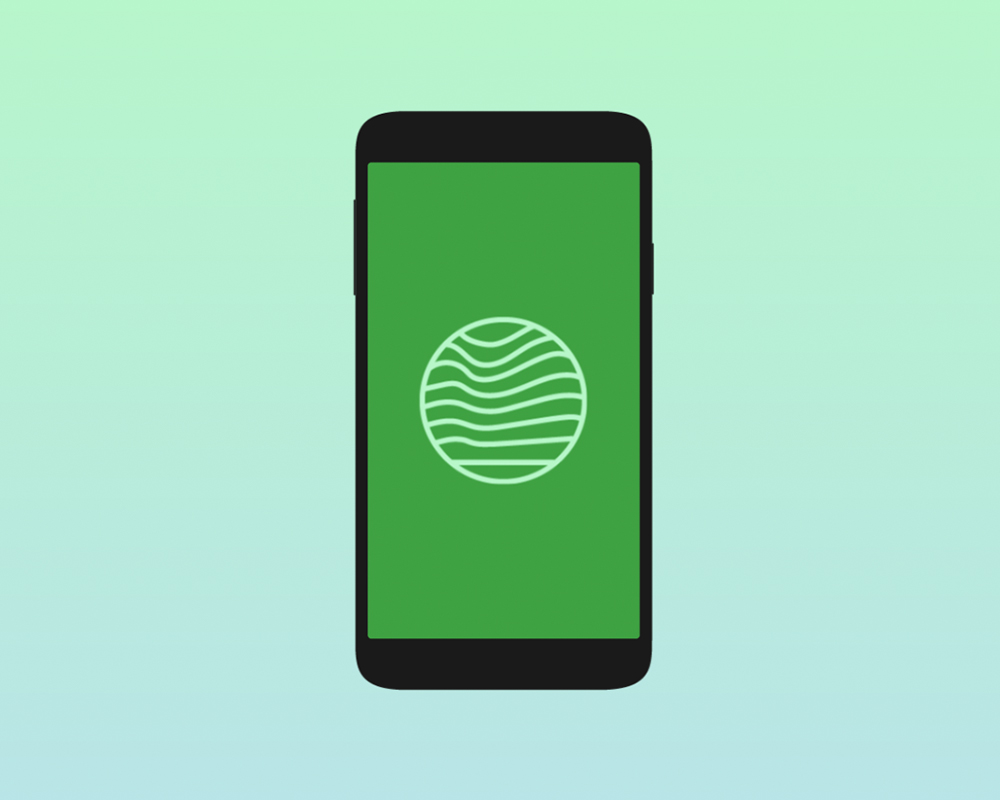
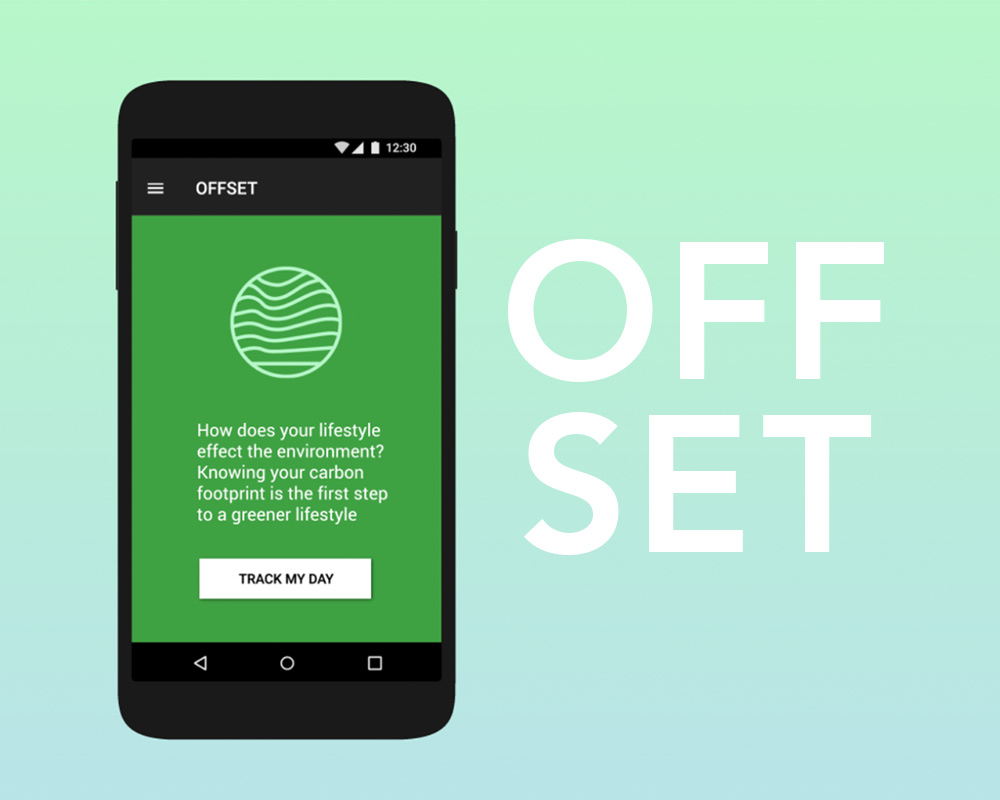
offset-temporary

diff --git a/index.html b/index.html
@@ -73,9 +73,9 @@ layout: default
         </div>
         
         <div class="gap portfolio-img-link island-1-4 unit unit-xs-1 unit-s-1 unit-m-1-2 unit-l-1-2">
-            <a href="{{site.baseurl}}/work/mix-app"><img class="flex" src="{{site.baseurl}}/images/mix-index.jpg" alt="" aria-label="See more of MIX app">
+            <a href="{{site.baseurl}}/work/offset"><img class="flex" src="{{site.baseurl}}/images/offset.jpg" alt="" aria-label="See more of MIX app">
             <div class="details island">
-                    <h2 class="push-1-4">MIX app</h2> 
+                    <h2 class="push-1-4">OFFSET app</h2> 
                     <h7><em>Design, UI/UX</em></h7>
                </div>
             </a>

diff --git a/work/offset.html b/work/offset.html
@@ -1,0 +1,7 @@
+---
+layout: default
+---
+
+<div class="portfolio-img pad-t-2">
+           <img class="island-1-4 flex" src="{{site.baseurl}}/images/offset-case-study.jpg" alt="">
+        </div>
